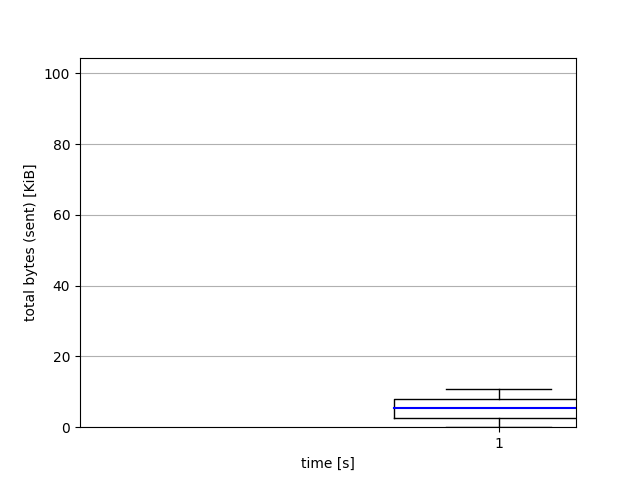
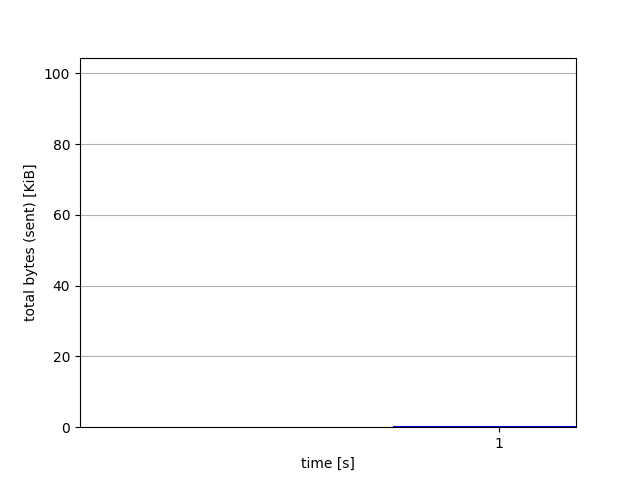
correct DataOutput

Changed region(s): [[0.5938, 0.7812, 0.9062, 0.9062]]

diff --git a/DataOutput.py b/DataOutput.py
@@ -252,7 +252,6 @@ class DataOutput:
         self.__fill_lists()
         timestamps = self.__get_timestamps()
 
-        # TODO: Add way to plot multiple graphs into one graphic
         no_data = True
         for l in self.lists:
             if self.lists[l] != [] and l != "time":
@@ -283,7 +282,7 @@ class DataOutput:
                     plt.ylim([0, max(values) + 0.05 * max(values)])
 
                     if median:
-                        data = self.__partition_data(self.lists[l], len(timestamps))
+                        data = self.__partition_data(self.lists[l], timestamps)
                         plt.boxplot(
                             data,
                             showfliers=True,
@@ -316,7 +315,7 @@ class DataOutput:
                     plt.ylim([min_limit, max_limit])
 
                     if median:
-                        data = self.__partition_data(self.lists[l], len(timestamps))
+                        data = self.__partition_data(self.lists[l], timestamps)
                         plt.boxplot(
                             data,
                             showfliers=True,
@@ -335,7 +334,7 @@ class DataOutput:
                     plt.ylim([0, max(self.lists[l]) + 0.05 * max(self.lists[l])])
 
                     if median:
-                        data = self.__partition_data(self.lists[l], len(timestamps))
+                        data = self.__partition_data(self.lists[l], timestamps)
                         plt.boxplot(
                             data,
                             showfliers=True,
@@ -368,21 +367,33 @@ class DataOutput:
         for l in self.lists:
             self.lists[l] = []
 
-    def __partition_data(self, initial_data, number_timestamps, number_blocks=8):
+    def __partition_data(self, initial_data, timestamps, number_blocks=8):
         data = []
         sub_data = []
-        init_cnt = number_timestamps // 8
-        cnt = init_cnt
+        sub_time = max(timestamps) / 8          # length of each interval
+        cur_time = sub_time                     # use data up to this time, then go to next interval
+        initial_time = datetime.fromisoformat(self.__get_time_stamp(0))
 
-        for e in initial_data:
-            sub_data.append(e)
-            if cnt > 1:
-                cnt -= 1
-            else:
-                cnt = init_cnt
-                data.append(sub_data)
-                sub_data = []
-
+        i = 0
+        while i < len(initial_data):
+            try:
+                time = datetime.fromisoformat(self.__get_time_stamp(i))
+                if (time - initial_time).total_seconds() > cur_time:    # if all values in interval have been added
+                    data.append(sub_data)
+                    sub_data = []
+                    cur_time += sub_time
+                    continue
+            except:
+                print_err("Something went wrong!")
+                return
+            
+            sub_data.append(initial_data[i])
+            i += 1
+            
+        time = datetime.fromisoformat(self.__get_time_stamp(len(initial_data) - 1))
+        if (time - initial_time).total_seconds() <= cur_time:
+            data.append(sub_data)
+            
         return data
 
     def __fill_lists(self):
